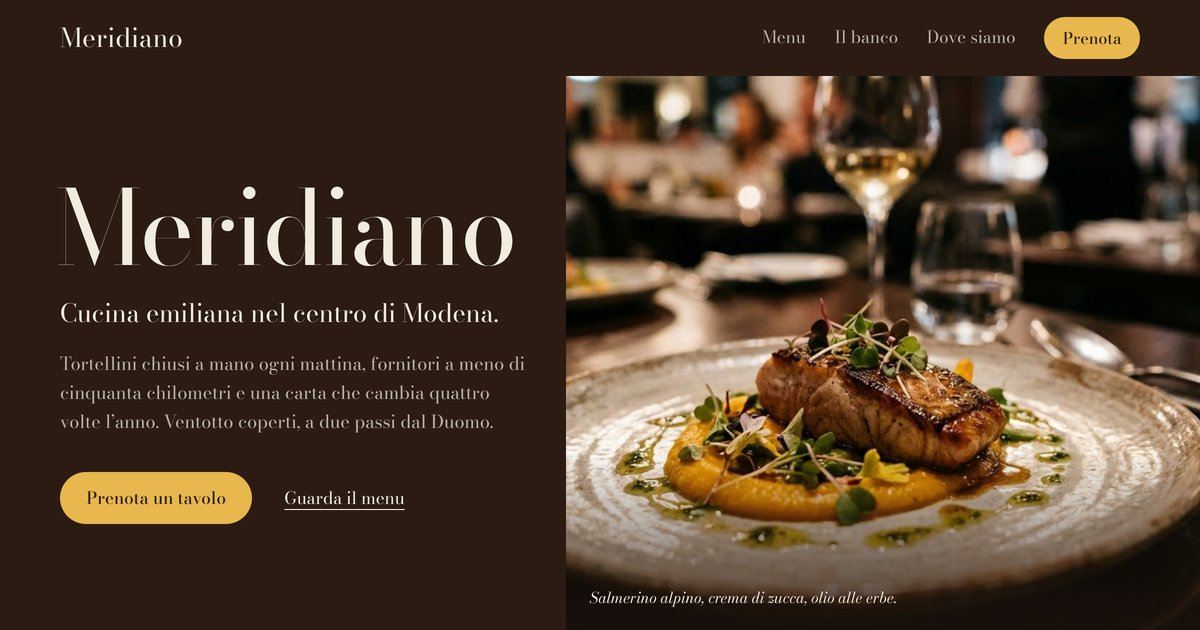
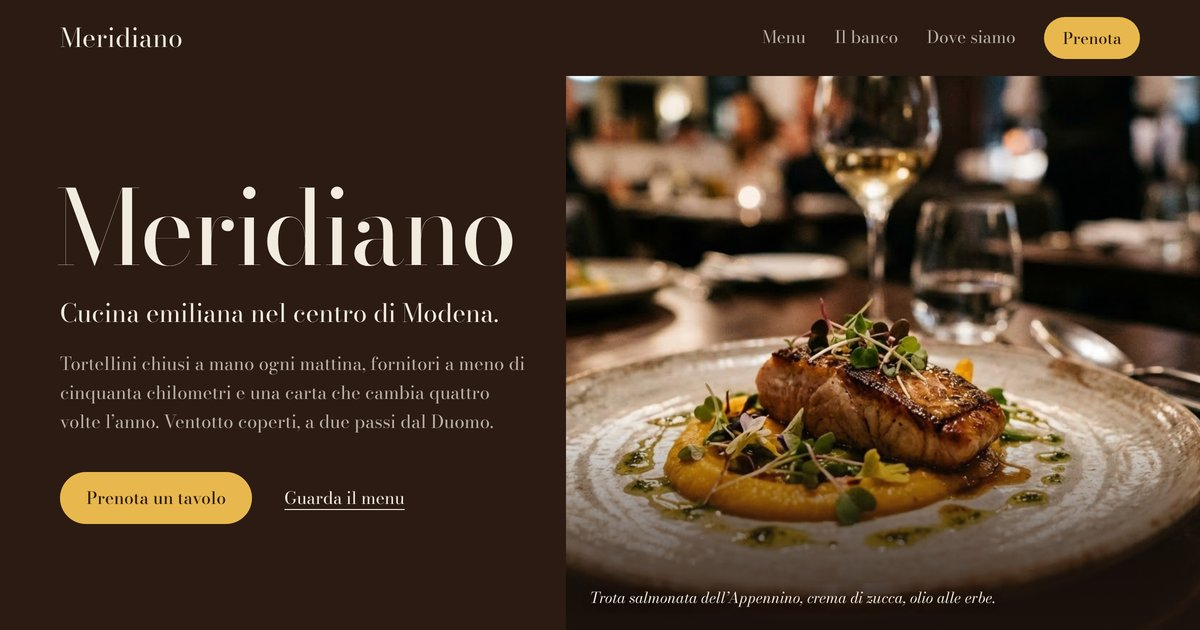
Sostituisci il salmerino alpino con la trota salmonata dell'Appennino
Il salmerino alpino arriva dalle Alpi e contraddiceva i fornitori a meno
di cinquanta chilometri. Aggiornati menu, didascalia, testo alternativo
e immagine di anteprima. La didascalia, ora su due righe sul telefono,
resta leggibile grazie a una sfumatura più scura sotto la foto.

Claude-Session: https://claude.ai/code/session_01UcgfHx8KH8sqdsoMcCW4qz

Changed region(s): [[0.4625, 0.6635, 1.0, 0.9651]]

diff --git a/index.html b/index.html
@@ -85,8 +85,8 @@ ul{padding:0;list-style:none}
 .hero__actions{display:flex;flex-wrap:wrap;align-items:center;gap:1rem 2rem;margin-top:2.25rem}
 .hero__photo{grid-area:1/2;position:relative;min-height:24rem;overflow:hidden}
 .hero__photo img{position:absolute;inset:0;width:100%;height:100%;object-fit:cover;object-position:50% 58%}
-.hero__photo::after{content:"";position:absolute;inset:auto 0 0;height:32%;background:linear-gradient(to top,rgba(31,20,14,.78),rgba(31,20,14,0))}
-.hero__photo figcaption{position:absolute;z-index:1;left:1.5rem;right:1.5rem;bottom:1.25rem;color:var(--farina);font-size:.9375rem;font-style:italic}
+.hero__photo::after{content:"";position:absolute;inset:auto 0 0;height:40%;background:linear-gradient(to top,rgba(31,20,14,.86),rgba(31,20,14,.55) 45%,rgba(31,20,14,0))}
+.hero__photo figcaption{position:absolute;z-index:1;left:1.5rem;right:1.5rem;bottom:1.25rem;color:var(--farina);font-size:.9375rem;font-style:italic;text-shadow:0 1px 10px rgba(31,20,14,.7)}
 
 /* La meridiana: la giornata di oggi, con il punto che segna l'ora attuale */
 .meridian{grid-area:2/1/3/3;padding:1.6rem var(--gutter) 2rem}
@@ -279,8 +279,8 @@ ul{padding:0;list-style:none}
       </div>
     </div>
     <figure class="hero__photo">
-      <img src="assets/img/piatto.jpg" width="1376" height="768" fetchpriority="high" alt="Filetto di salmerino scottato su crema di zucca, con germogli e gocce di olio alle erbe, in un piatto di ceramica">
-      <figcaption>Salmerino alpino, crema di zucca, olio alle erbe.</figcaption>
+      <img src="assets/img/piatto.jpg" width="1376" height="768" fetchpriority="high" alt="Filetto di trota salmonata scottato su crema di zucca, con germogli e gocce di olio alle erbe, in un piatto di ceramica">
+      <figcaption>Trota salmonata dell’Appennino, crema di zucca, olio alle erbe.</figcaption>
     </figure>
     <div class="meridian">
       <div class="meridian__head">
@@ -356,7 +356,7 @@ ul{padding:0;list-style:none}
           <div class="course">
             <h3 class="course__name">Secondi</h3>
             <ul>
-              <li class="dish"><p class="dish__row"><span class="dish__name">Salmerino alpino</span><span class="dish__leader" aria-hidden="true"></span><span class="dish__price">26<span class="sr-only"> euro</span></span></p><p class="dish__desc">Crema di zucca, olio alle erbe, germogli.</p></li>
+              <li class="dish"><p class="dish__row"><span class="dish__name">Trota salmonata dell’Appennino</span><span class="dish__leader" aria-hidden="true"></span><span class="dish__price">26<span class="sr-only"> euro</span></span></p><p class="dish__desc">Crema di zucca, olio alle erbe, germogli.</p></li>
               <li class="dish"><p class="dish__row"><span class="dish__name">Guancia di manzo al Lambrusco</span><span class="dish__leader" aria-hidden="true"></span><span class="dish__price">26<span class="sr-only"> euro</span></span></p><p class="dish__desc">Otto ore di cottura, purè di patate affumicato.</p></li>
               <li class="dish"><p class="dish__row"><span class="dish__name">Cotechino di Modena</span><span class="dish__leader" aria-hidden="true"></span><span class="dish__price">20<span class="sr-only"> euro</span></span></p><p class="dish__desc">Lenticchie in umido, zabaione salato.</p></li>
             </ul>
